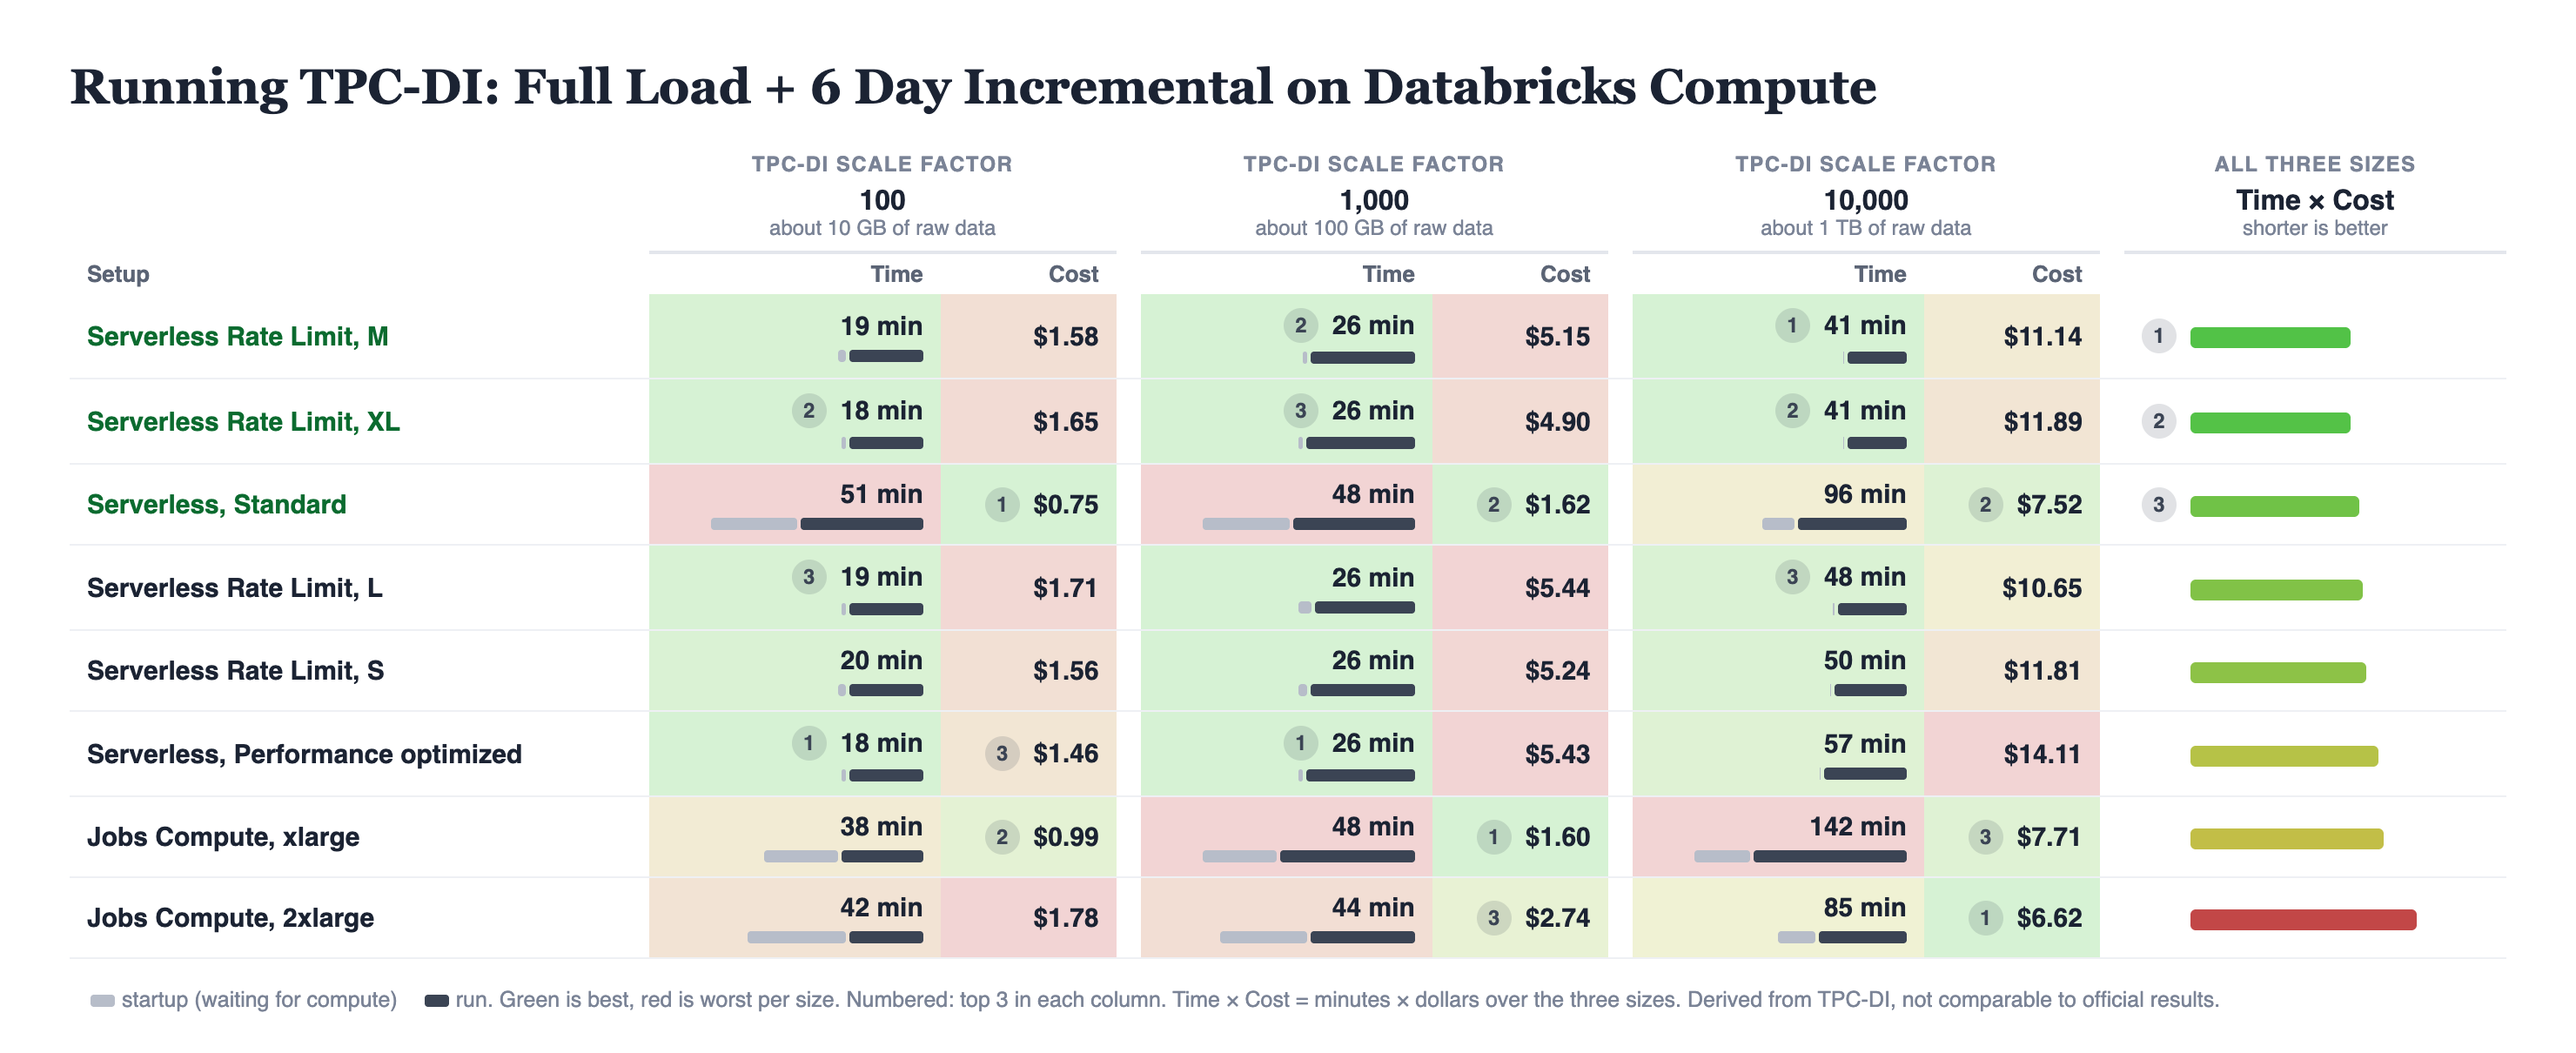
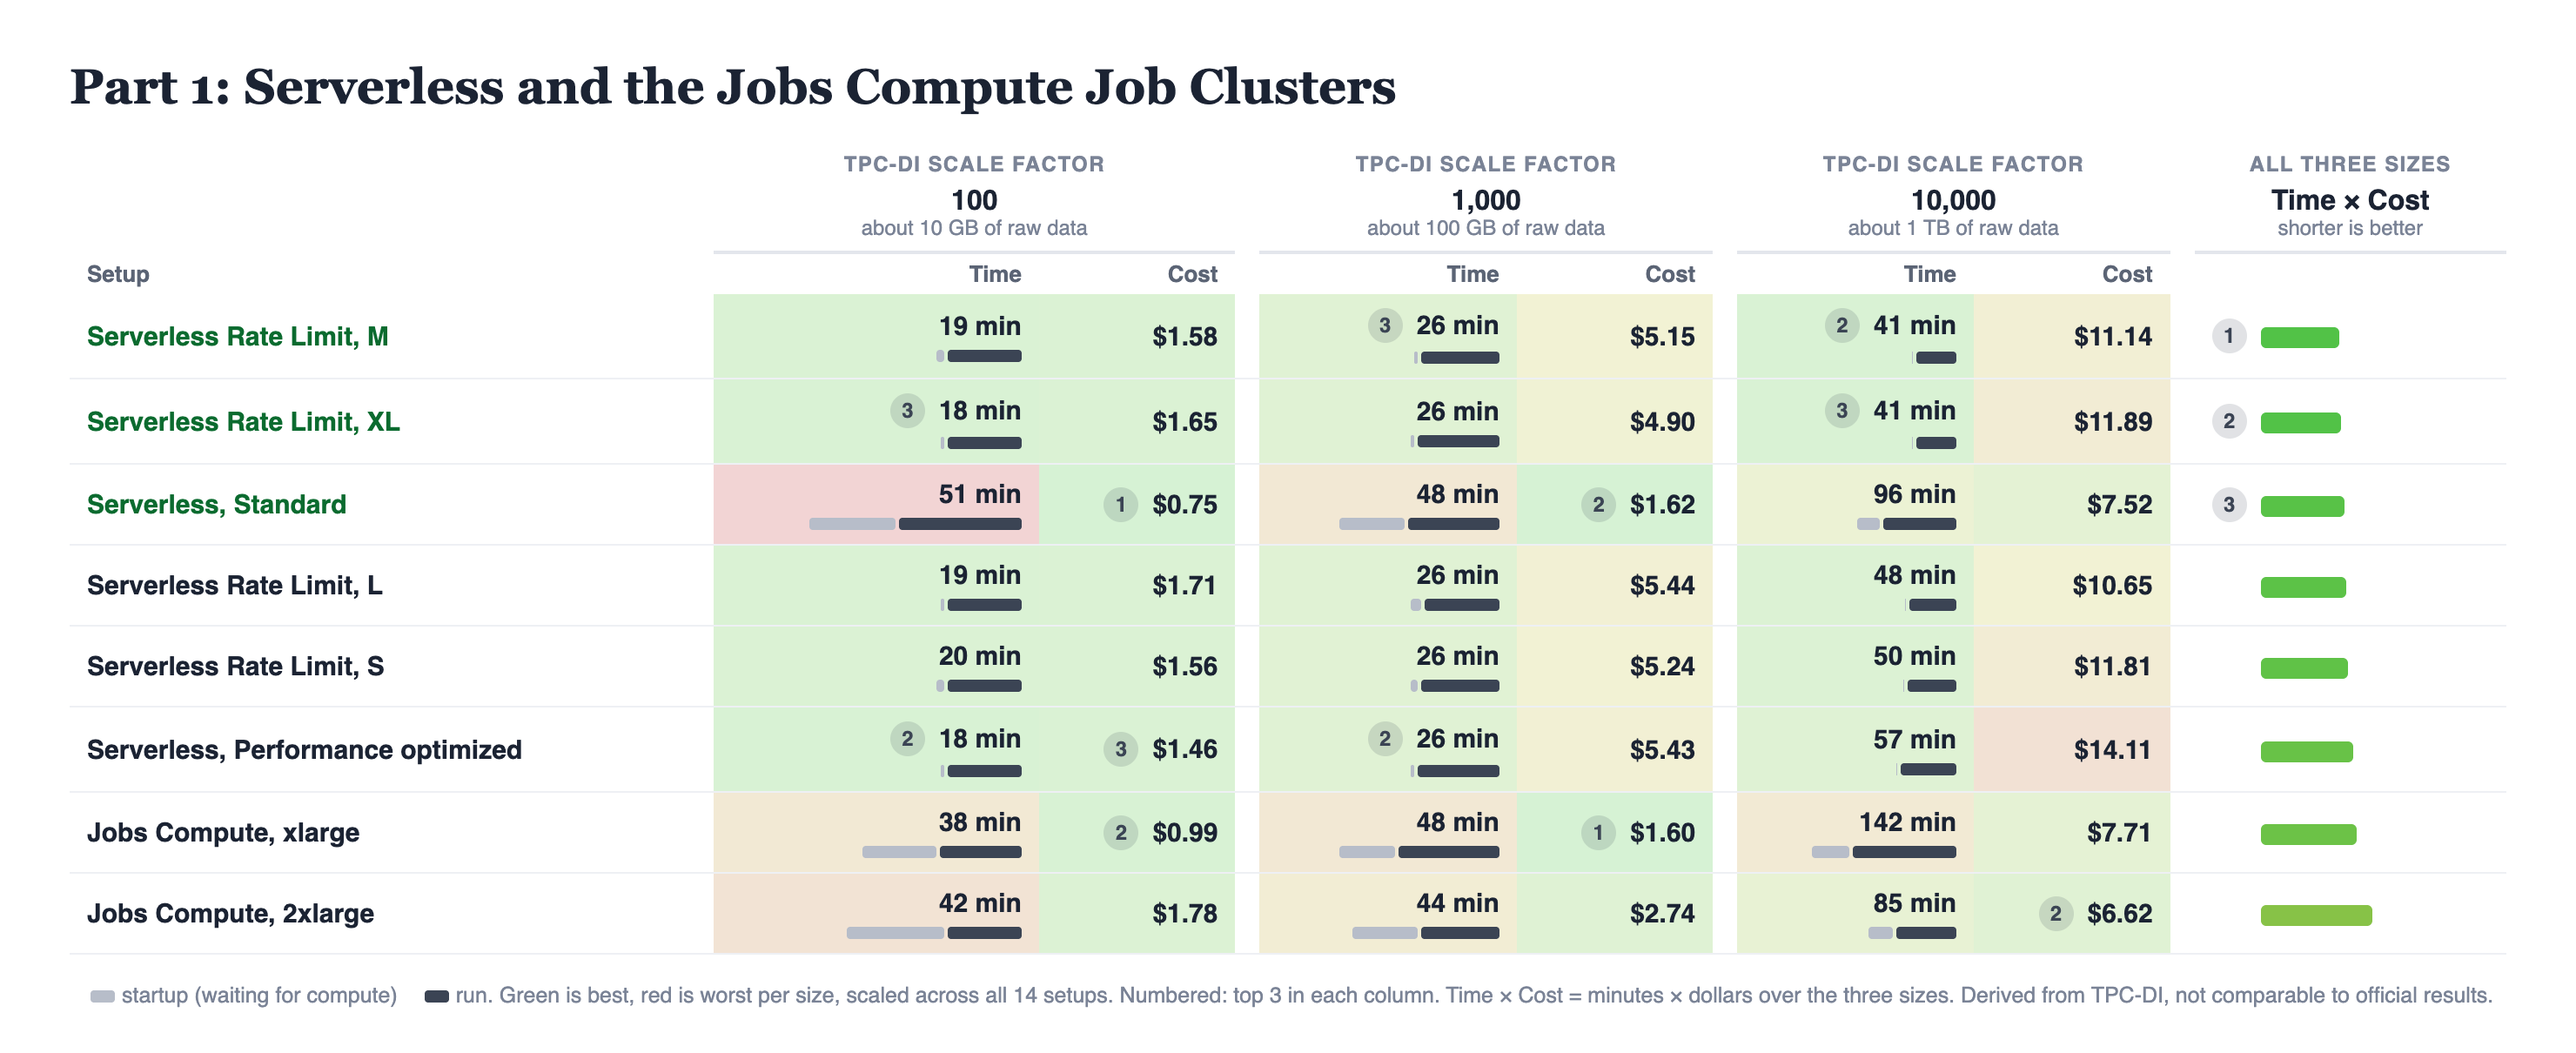
Results: the full table first, then the two parts, one colour scale

diff --git a/README.md b/README.md
@@ -19,40 +19,65 @@ The reasoning for each is in [docs/conclusions.md](docs/conclusions.md).
 
 Each cell is the **full load plus six days** added together: startup minutes (waiting for compute) + run minutes (working) = total minutes, and cost (Databricks plus AWS list price). Every cell is one run. In the picture, green is best and red is worst within each size.
 
-### The main comparison
+### All setups
 
-![Main comparison: time and cost, the three fastest and cheapest per size numbered](docs/img/results-main.png)
+![All 14 setups: time and cost at three sizes, sorted by Time × Cost](docs/img/results-all.png)
 
 <details><summary>Same table as text</summary>
 
 | Setup | SF 100 | SF 1,000 | SF 10,000 |
 |---|---|---|---|
-| Serverless, Standard | startup 21 + run 30 = **51** min · **$0.75** | startup 20 + run 28 = **48** min · **$1.62** | startup 22 + run 74 = **96** min · **$7.52** |
-| Serverless, Performance optimized | startup 1 + run 18 = **18** min · **$1.46** | startup 1 + run 25 = **26** min · **$5.43** | startup 1 + run 56 = **57** min · **$14.11** |
-| Serverless Rate Limit, S | startup 2 + run 18 = **20** min · **$1.56** | startup 2 + run 24 = **26** min · **$5.24** | startup 1 + run 49 = **50** min · **$11.81** |
 | Serverless Rate Limit, M | startup 2 + run 18 = **19** min · **$1.58** | startup 1 + run 24 = **26** min · **$5.15** | startup 1 + run 40 = **41** min · **$11.14** |
-| Serverless Rate Limit, L | startup 1 + run 18 = **19** min · **$1.71** | startup 3 + run 23 = **26** min · **$5.44** | startup 1 + run 47 = **48** min · **$10.65** |
 | Serverless Rate Limit, XL | startup 1 + run 18 = **18** min · **$1.65** | startup 1 + run 25 = **26** min · **$4.90** | startup 1 + run 40 = **41** min · **$11.89** |
+| Serverless, Standard | startup 21 + run 30 = **51** min · **$0.75** | startup 20 + run 28 = **48** min · **$1.62** | startup 22 + run 74 = **96** min · **$7.52** |
+| Serverless Rate Limit, L | startup 1 + run 18 = **19** min · **$1.71** | startup 3 + run 23 = **26** min · **$5.44** | startup 1 + run 47 = **48** min · **$10.65** |
+| Serverless Rate Limit, S | startup 2 + run 18 = **20** min · **$1.56** | startup 2 + run 24 = **26** min · **$5.24** | startup 1 + run 49 = **50** min · **$11.81** |
+| Jobs Compute, 2xlarge, spot workers | startup 30 + run 18 = **48** min · **$1.46** | startup 26 + run 23 = **49** min · **$1.98** | startup 26 + run 63 = **89** min · **$4.63** |
+| Serverless, Performance optimized | startup 1 + run 18 = **18** min · **$1.46** | startup 1 + run 25 = **26** min · **$5.43** | startup 1 + run 56 = **57** min · **$14.11** |
+| Jobs Compute, xlarge | startup 18 + run 20 = **38** min · **$0.99** | startup 17 + run 31 = **48** min · **$1.60** | startup 38 + run 104 = **142** min · **$7.71** |
+| Jobs Compute, 2xlarge, 2 to 8 workers | startup 13 + run 17 = **30** min · **$2.23** | startup 14 + run 22 = **35** min · **$3.23** | startup 31 + run 48 = **79** min · **$6.99** |
+| Jobs Compute, 2xlarge | startup 24 + run 18 = **42** min · **$1.78** | startup 20 + run 24 = **44** min · **$2.74** | startup 25 + run 60 = **85** min · **$6.62** |
+| Serverless SQL warehouse, Large | startup 1 + run 16 = **17** min · **$11.27** | startup 1 + run 17 = **18** min · **$9.02** | startup 1 + run 30 = **31** min · **$13.44** |
+| All-Purpose Compute, 2xlarge | startup 14 + run 18 = **32** min · **$3.49** | startup 13 + run 24 = **37** min · **$5.57** | startup 10 + run 62 = **73** min · **$13.71** |
+| Jobs Compute, 8xlarge | startup 11 + run 16 = **28** min · **$5.61** | startup 12 + run 19 = **31** min · **$7.34** | startup 24 + run 30 = **54** min · **$13.00** |
+| Jobs Compute, 2xlarge, Photon off | startup 14 + run 24 = **37** min · **$1.58** | startup 24 + run 40 = **64** min · **$3.12** | startup 26 + run 184 = **210** min · **$16.91** |
+
+</details>
+
+### Part 1: Serverless and the Jobs Compute job clusters
+
+![Part 1](docs/img/results-main.png)
+
+<details><summary>Same table as text</summary>
+
+| Setup | SF 100 | SF 1,000 | SF 10,000 |
+|---|---|---|---|
+| Serverless Rate Limit, M | startup 2 + run 18 = **19** min · **$1.58** | startup 1 + run 24 = **26** min · **$5.15** | startup 1 + run 40 = **41** min · **$11.14** |
+| Serverless Rate Limit, XL | startup 1 + run 18 = **18** min · **$1.65** | startup 1 + run 25 = **26** min · **$4.90** | startup 1 + run 40 = **41** min · **$11.89** |
+| Serverless, Standard | startup 21 + run 30 = **51** min · **$0.75** | startup 20 + run 28 = **48** min · **$1.62** | startup 22 + run 74 = **96** min · **$7.52** |
+| Serverless Rate Limit, L | startup 1 + run 18 = **19** min · **$1.71** | startup 3 + run 23 = **26** min · **$5.44** | startup 1 + run 47 = **48** min · **$10.65** |
+| Serverless Rate Limit, S | startup 2 + run 18 = **20** min · **$1.56** | startup 2 + run 24 = **26** min · **$5.24** | startup 1 + run 49 = **50** min · **$11.81** |
+| Serverless, Performance optimized | startup 1 + run 18 = **18** min · **$1.46** | startup 1 + run 25 = **26** min · **$5.43** | startup 1 + run 56 = **57** min · **$14.11** |
 | Jobs Compute, xlarge | startup 18 + run 20 = **38** min · **$0.99** | startup 17 + run 31 = **48** min · **$1.60** | startup 38 + run 104 = **142** min · **$7.71** |
 | Jobs Compute, 2xlarge | startup 24 + run 18 = **42** min · **$1.78** | startup 20 + run 24 = **44** min · **$2.74** | startup 25 + run 60 = **85** min · **$6.62** |
 
 </details>
 
-### The 2xlarge variants and the SQL warehouse
+### Part 2: the 2xlarge variants and the SQL warehouse
 
-![Variants: spot, Photon off, min 2 workers, 8xlarge, all-purpose and the SQL warehouse](docs/img/results-variants.png)
+![Part 2](docs/img/results-variants.png)
 
 <details><summary>Same table as text</summary>
 
 | Setup | SF 100 | SF 1,000 | SF 10,000 |
 |---|---|---|---|
-| Jobs Compute, 2xlarge | startup 24 + run 18 = **42** min · **$1.78** | startup 20 + run 24 = **44** min · **$2.74** | startup 25 + run 60 = **85** min · **$6.62** |
 | Jobs Compute, 2xlarge, spot workers | startup 30 + run 18 = **48** min · **$1.46** | startup 26 + run 23 = **49** min · **$1.98** | startup 26 + run 63 = **89** min · **$4.63** |
-| Jobs Compute, 2xlarge, Photon off | startup 14 + run 24 = **37** min · **$1.58** | startup 24 + run 40 = **64** min · **$3.12** | startup 26 + run 184 = **210** min · **$16.91** |
 | Jobs Compute, 2xlarge, 2 to 8 workers | startup 13 + run 17 = **30** min · **$2.23** | startup 14 + run 22 = **35** min · **$3.23** | startup 31 + run 48 = **79** min · **$6.99** |
-| Jobs Compute, 8xlarge | startup 11 + run 16 = **28** min · **$5.61** | startup 12 + run 19 = **31** min · **$7.34** | startup 24 + run 30 = **54** min · **$13.00** |
-| All-Purpose Compute, 2xlarge | startup 14 + run 18 = **32** min · **$3.49** | startup 13 + run 24 = **37** min · **$5.57** | startup 10 + run 62 = **73** min · **$13.71** |
+| Jobs Compute, 2xlarge | startup 24 + run 18 = **42** min · **$1.78** | startup 20 + run 24 = **44** min · **$2.74** | startup 25 + run 60 = **85** min · **$6.62** |
 | Serverless SQL warehouse, Large | startup 1 + run 16 = **17** min · **$11.27** | startup 1 + run 17 = **18** min · **$9.02** | startup 1 + run 30 = **31** min · **$13.44** |
+| All-Purpose Compute, 2xlarge | startup 14 + run 18 = **32** min · **$3.49** | startup 13 + run 24 = **37** min · **$5.57** | startup 10 + run 62 = **73** min · **$13.71** |
+| Jobs Compute, 8xlarge | startup 11 + run 16 = **28** min · **$5.61** | startup 12 + run 19 = **31** min · **$7.34** | startup 24 + run 30 = **54** min · **$13.00** |
+| Jobs Compute, 2xlarge, Photon off | startup 14 + run 24 = **37** min · **$1.58** | startup 24 + run 40 = **64** min · **$3.12** | startup 26 + run 184 = **210** min · **$16.91** |
 
 </details>
 
